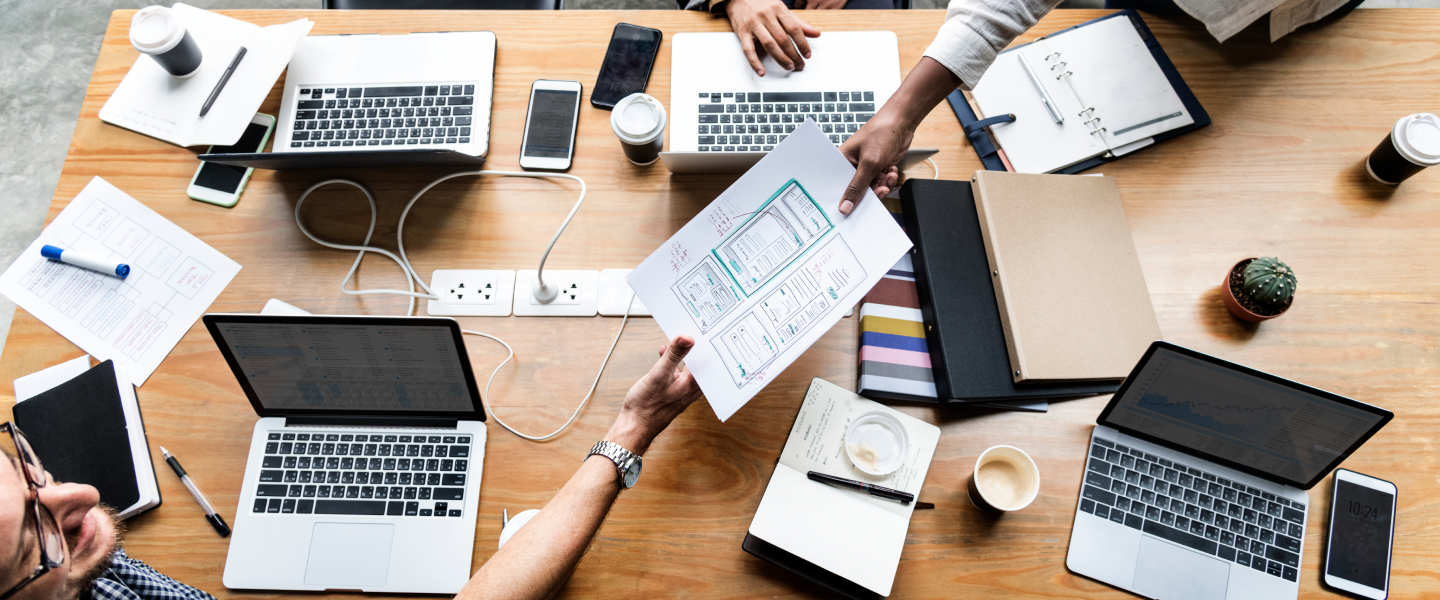
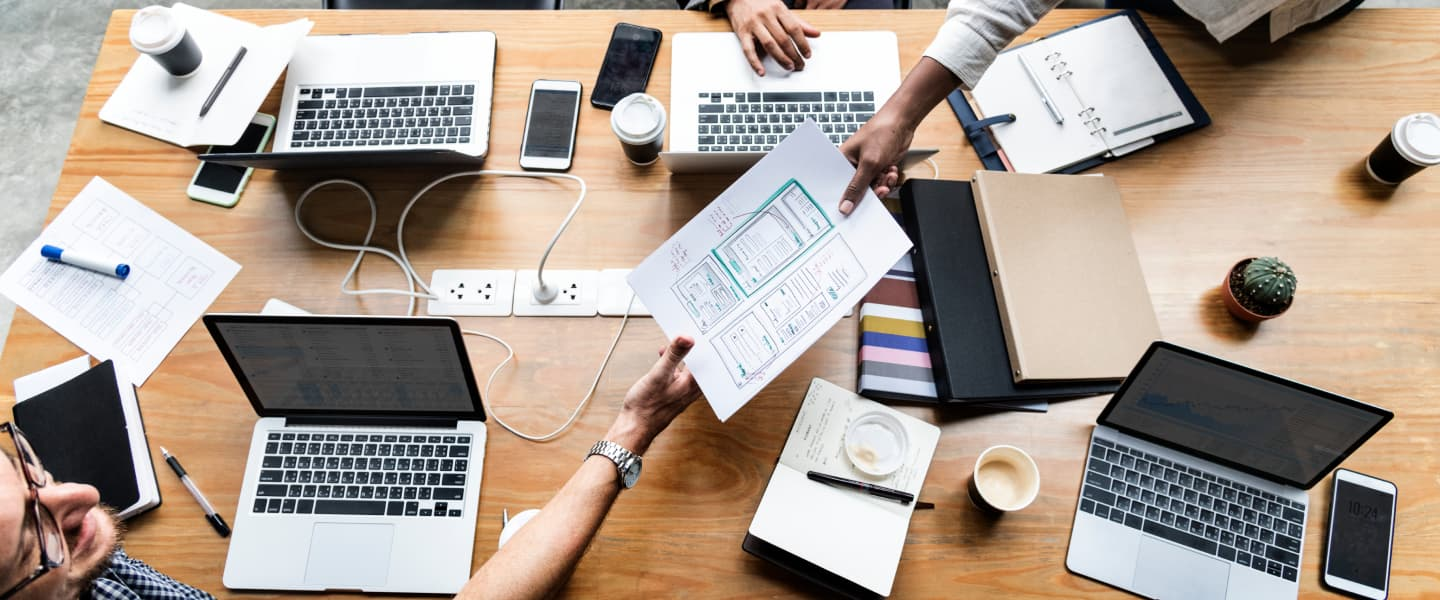
123

diff --git a/styles/styles.css b/styles/styles.css
@@ -607,20 +607,27 @@ a {
 
 
 .container {
-    min-width: 320px;
-    max-width: 480px;
-    /* phone screen */
+    /* min-width: 320px;
+    max-width: 480px; */
     padding-left: 16px;
     padding-right: 16px;
 
-    margin-left: auto;
-    margin-right: auto;
+    /* margin-left: auto;
+    margin-right: auto; */
 
 
     /* max-width: 1158px;
     margin: 0 auto;
      */
 }
+
+@media screen and (min-width:480px) {
+    .container {
+      max-width: 100%;
+      margin-left: auto;
+      margin-right: auto;
+    }
+  }
 
 /* modal screen */
 
@@ -858,7 +865,7 @@ a {
 
 @media (min-width:1200px) {
     .container {
-        max-width: 1200px;
+        width: 1200px;
     }
 }
 
@@ -872,9 +879,9 @@ a {
 
     /* tablet screen */
 
-@media (min-width: 768px) and (max-width:1199px) {
+@media (min-width:768px) and (max-width:1199px) {
     .container {
-        max-width: 768px;
+        width: 768px;
     }
 }
 
@@ -902,13 +909,13 @@ a {
 @media (min-width: 768px) {
     .contact-info-container {
         display: block;
+        margin-left: auto;
     }
 }
 
 @media (min-width:768px) {
     .header-container {
         display: flex;
-        justify-content: space-between;
         align-items: center;
     }
 }
@@ -1000,7 +1007,7 @@ a {
 @media (min-width:1200px) {
     .header-container {
         display: flex;
-        justify-content: space-between;
+        align-items: center;
     }
 }
 
@@ -1068,7 +1075,9 @@ a {
 @media (min-width:1200px) {
     .contact-info-container {
         display: flex;
+        flex-direction: row;
         align-items: center;
+        margin-left: auto;
         gap: 40px;
     }
 }
@@ -1127,11 +1136,54 @@ a {
 .main-header {
     background: #2E2F42;
     padding: 112px 56px 240px 54px;
-    background-image: linear-gradient(to right, rgba(46, 47, 66, 0.7), rgba(46, 47, 66, 0.7)), url('../images/background-office.jpg');
     background-position: center;
     background-repeat: no-repeat;
     background-size: cover;
+
+    background-image: linear-gradient(to right, rgba(46, 47, 66, 0.7), rgba(46, 47, 66, 0.7)), url('../images/background-oficce-mobile.jpg');
 }
+
+@media screen and (min-device-pixel-ratio: 2),
+    (min-resolution: 192dpi),
+    (min-resolution: 2dppx) {
+        .main-header {
+            background-image:  background-image: linear-gradient(to right, rgba(24, 22, 22, 0.7), rgba(46, 47, 66, 0.7)), url(../images/background-oficce-mobile-mobile@2x.jpg);
+        }
+    }
+
+    /* screen >= 480px*/
+@media screen and (min-width: 481px) {
+    .main-header {
+        background-image:  background-image: linear-gradient(to right, rgba(24, 22, 22, 0.7), rgba(46, 47, 66, 0.7)), url(../images/background-oficce-tablet.jpg);
+    }
+}
+
+@media screen and (min-width: 481px) and (min-device-pixel-ratio: 2),
+(min-resolution: 192dpi),
+(min-resolution: 2dppx) {
+    .main-header {
+        background-image:  background-image: linear-gradient(to right, rgba(24, 22, 22, 0.7), rgba(46, 47, 66, 0.7)), url(../images/background-oficce-tablet@2x.jpg);
+    }
+}
+
+/* screen >= 768px */
+
+@media screen and (min-width: 769px) {
+    .main-header {
+        background-image:  background-image: linear-gradient(to right, rgba(24, 22, 22, 0.7), rgba(46, 47, 66, 0.7)), url(../images/background-office.jpg);
+    }
+}
+
+@media screen and (min-width: 769px) and (min-device-pixel-ratio: 2),
+(min-resolution: 192dpi),
+(min-resolution: 2dppx) {
+    .main-header {
+        background-image:  background-image: linear-gradient(to right, rgba(24, 22, 22, 0.7), rgba(46, 47, 66, 0.7)), url(../images/background-office-desktop@2x.jpg)
+    }
+}
+
+
+
 
 @media (max-width:768px) {
     .header-1 {
@@ -1645,8 +1697,9 @@ a {
     }
 }
 
+
 @media (min-width: 768px) {
-    .button-burger {
+    .menu-container {
         display: none;
     }
 }
